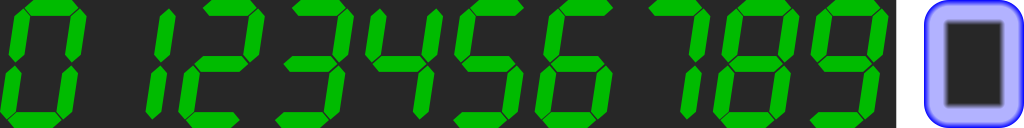
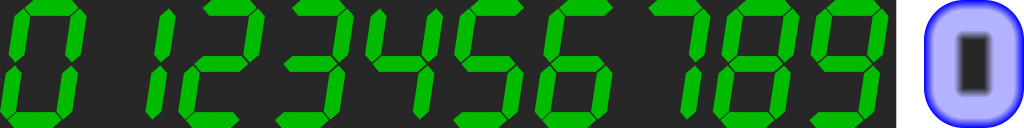
score_painter: Increase the width of the frame in the image
The gradient for the frame might as well take up as much space in the
image as possible.

Changed region(s): [[0.875, 0.0, 1.0, 1.0]]

diff --git a/src/game/game_painter/score_painter.rs b/src/game/game_painter/score_painter.rs
@@ -42,10 +42,12 @@ const INNER_GAP_SIZE: f32 = SCORE_WIDTH / 16.0;
 const TEX_WIDTH: u32 = 1024;
 const TEX_HEIGHT: u32 = 128;
 
+// Width of the frame in pixels in the image
+const FRAME_PIXEL_WIDTH: u32 = 40;
 // Width of the frame in texture coordinates
-const FRAME_TEX_WIDTH: u16 = (25u32 * 65535 / TEX_WIDTH) as u16;
+const FRAME_TEX_WIDTH: u16 = (FRAME_PIXEL_WIDTH * 65535 / TEX_WIDTH) as u16;
 // Height of the frame in texture coordinates
-const FRAME_TEX_HEIGHT: u16 = (25u32 * 65535 / TEX_HEIGHT) as u16;
+const FRAME_TEX_HEIGHT: u16 = (FRAME_PIXEL_WIDTH * 65535 / TEX_HEIGHT) as u16;
 // Texture coordinate of the left side of the frame
 const FRAME_TEX_LEFT: u16 = ((TEX_WIDTH - 100) * 65535 / TEX_WIDTH) as u16;
 // Total width of all the digits in texture coordinates
@@ -63,7 +65,7 @@ const DIGIT_HEIGHT: f32 = DIGIT_WIDTH
        * TEX_WIDTH as f32);
 
 // Tex coords of a known black texel
-const GAP_TEX_S: u16 = (963 * u16::MAX as u32 / 1024) as u16;
+const GAP_TEX_S: u16 = ((65535 + FRAME_TEX_LEFT as u32) / 2) as u16;
 const GAP_TEX_T: u16 = u16::MAX / 2;
 
 // Milliseconds per unit change when animating the score
@@ -301,9 +303,9 @@ impl ScorePainter {
             top,
             right - FRAME_WIDTH,
             top - FRAME_WIDTH * y_scale,
-            FRAME_TEX_LEFT + FRAME_TEX_WIDTH * 2,
+            GAP_TEX_S,
             0,
-            FRAME_TEX_LEFT + FRAME_TEX_WIDTH * 2,
+            GAP_TEX_S,
             FRAME_TEX_HEIGHT,
         );
         // Bottom side
@@ -312,9 +314,9 @@ impl ScorePainter {
             bottom + FRAME_WIDTH * y_scale,
             right - FRAME_WIDTH,
             bottom,
-            FRAME_TEX_LEFT + FRAME_TEX_WIDTH * 2,
+            GAP_TEX_S,
             u16::MAX - FRAME_TEX_HEIGHT,
-            FRAME_TEX_LEFT + FRAME_TEX_WIDTH * 2,
+            GAP_TEX_S,
             u16::MAX,
         );
 

diff --git a/utils/src/create_frame_image.rs b/utils/src/create_frame_image.rs
@@ -20,7 +20,7 @@ use std::process::ExitCode;
 
 const IMAGE_WIDTH: u32 = 100;
 const IMAGE_HEIGHT: u32 = 128;
-const FRAME_WIDTH: f64 = 25.0;
+const FRAME_WIDTH: f64 = 40.0;
 const COLOR_STOP_POINT: f64 = 0.25;
 
 const INNER_COLOR: [f64; 3] = [0.153, 0.153, 0.153];
